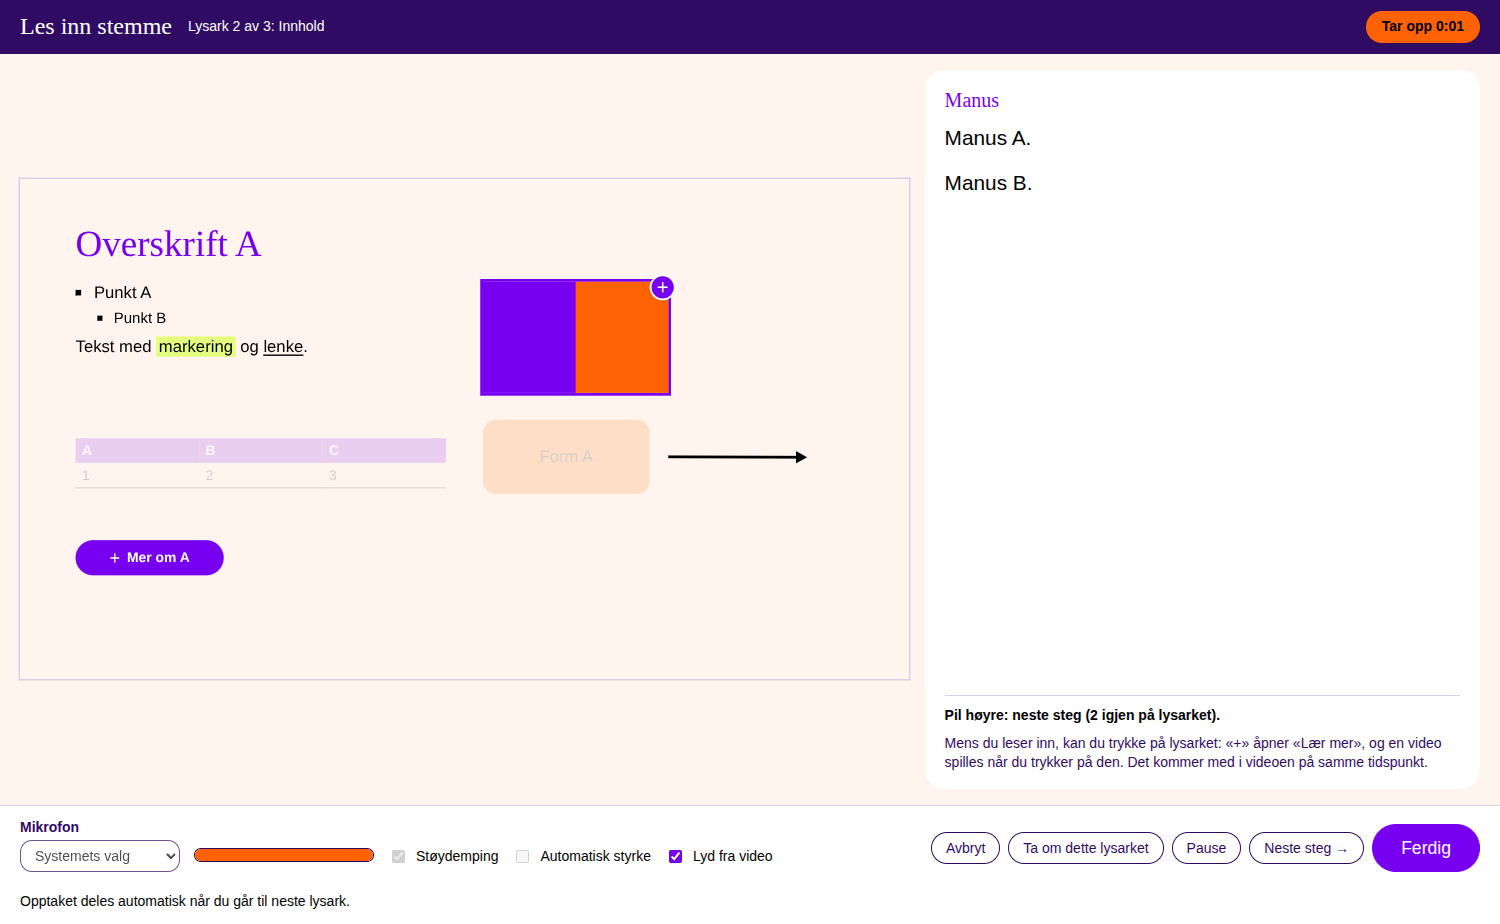
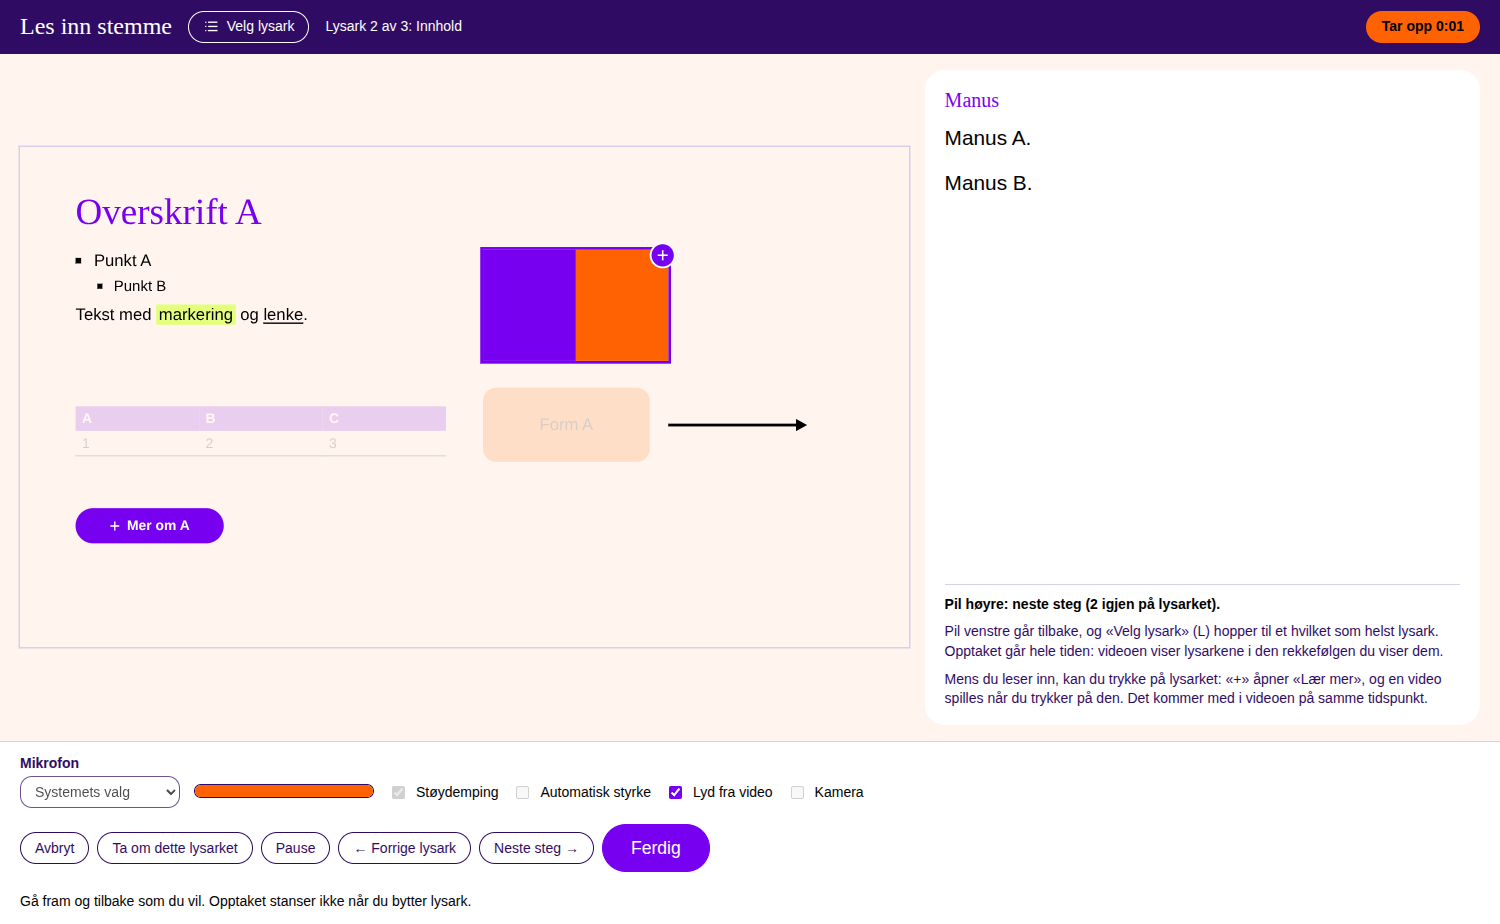
Version 0.5.0: the front page says what the release holds, with new pictures

diff --git a/README.md b/README.md
@@ -44,24 +44,55 @@ på `-win.zip`, pakke den ut og dobbeltklikke på `Lysark.exe`.
 ### 1. Hent inn forelesningen
 
 Trykk «Importer PowerPoint» eller «Importer PDF» og velg fila. Lysark
-lager et prosjekt med ett lysark per side, og sier fra om det som ikke
-kom med.
+spør hvordan lysarkene skal se ut:
+
+- **«Behold utseendet»**: lysarkene ser ut som i fila di.
+- **«Gjør om til USN-stil»**: innholdet settes inn i Lysarks eget
+  utseende. Stående søylediagram og linjediagram fra PowerPoint tegnes
+  da på nytt, med de samme tallene.
+
+Uansett hva du velger, kan tekst og bilder flyttes og endres etterpå.
+Seksjonene i PowerPoint og bokmerkene i en PDF blir kapitler. Lysark
+sier fra om det som ikke kom med.
 
 ### 2. Rett opp lysarkene
 
-Klikk for å velge, dra for å flytte, dobbeltklikk for å skrive. Under
-«Steg» bestemmer du hva som skal komme inn ett for ett.
+Klikk for å velge, dra for å flytte, dobbeltklikk for å skrive.
 
-Høyreklikk på hva som helst og velg «Legg til «Lær mer»» for å gi
-studentene mer stoff: tekst, bilder, video, tabeller og nettsider.
-Bilder kan du søke fram i Wikimedia Commons og Openverse, og Lysark
-setter inn hvem som har laget dem.
-Studenten trykker på «+», og en boks spretter ut ved siden av.
+**Figurer.** «Sett inn» og «Figur» gir deg en prosess, en lagvis
+oppbygging, en sammenligning, en tidsakse, et søylediagram eller et
+linjediagram. Du fyller ut et skjema, og figuren tegner seg selv. Tall
+til et diagram kan du lime rett inn fra et regneark. Du kan også lage
+en figur fritt: piler fester seg til bokser og følger dem når du
+flytter dem.
+
+![Et søylediagram, med tabellen for tallene til høyre](docs/bilder/figur.png)
+
+**Steg.** Under «Steg» bestemmer du hva som skal skje, ett trykk om
+gangen: noe kommer inn, noe markeres, noe tas bort, eller bildet zoomer
+inn på et utsnitt. Lysark foreslår hvordan hver ting kommer inn: en pil
+tegnes, søyler vokser, et stort tall teller opp. Du kan velge noe annet.
+
+![Fanen «Steg» med stegene til et lysark](docs/bilder/steg.png)
+
+**«Lær mer».** Høyreklikk på hva som helst og velg «Legg til «Lær mer»»
+for å gi studentene mer stoff: tekst, bilder, video, tabeller,
+nettsider og figurer du har laget på et lysark. Bilder kan du søke fram
+i Wikimedia Commons og Openverse, og Lysark setter inn hvem som har
+laget dem. Studenten trykker på «+», og en boks spretter ut ved siden
+av.
+
+**Merker på et bilde.** Velg et bilde og trykk «Legg til merke» for å
+peke ut det viktige i bildet, med tall og forklaring eller med
+etiketter.
 
 ### 3. Les inn stemmen
 
 Trykk «Les inn» i fanen «Lyd». Manuset står ved siden av lysarket mens
-du snakker. Pil høyre går til neste steg eller neste lysark.
+du snakker. Pil høyre går til neste steg eller neste lysark, pil venstre
+går tilbake, og «Velg lysark» hopper dit du vil. Opptaket går hele
+tiden, som et vanlig videoopptak: går du tilbake til et lysark, vises
+det en gang til i videoen.
 
 Vil du være med i bildet, krysser du av for «Kamera». Da vises ansiktet
 ditt i en sirkel på lysarket, og blir med i videoen. Dra sirkelen dit
@@ -87,13 +118,14 @@ til å bruke.
 
 - **«Eksporter HTML»** gir én fil du legger ut til studentene. Har du
   lest inn stemmen, kan de trykke «Spill av».
-- **«Eksporter video»** gir en MP4-fil med teksting ved siden av, eller
-  en GIF av et kort klipp.
+- **«Eksporter video»** gir en MP4-fil med kapitler og med teksting
+  ved siden av, eller en GIF av et kort klipp. Du kan også lage en
+  video av bare noen få lysark.
 
 ### Dette får studentene
 
 En forelesning de blar i selv, med piltaster eller mus. «+» åpner det du
-har lagt i «Lær mer».
+har lagt i «Lær mer», og «Innhold» viser kapitlene.
 
 ![Forelesningen i nettleseren, med en «Lær mer»-boks åpen](docs/bilder/student.png)
 

diff --git a/docs/historikk.md b/docs/historikk.md
@@ -3186,6 +3186,60 @@ videre. Testen svarer selv; dialogen er aldri vist på skjermen.
 **Ikke prøvd:** Windows, og dialogen sett med øynene (testen leser hva
 den ber om, den ser den ikke).
 
+### 6.48 Eieren ber om en utgivelse, nye bilder og et rullefelt som holder seg innenfor (26.11.2026)
+
+Startmeldingen til denne chatten hadde ingen funn («(skriv her)» sto
+igjen). Innspillet, ord for ord:
+
+> Jeg vil nå egentlig bare får en release, oppdaterer med nye bilder på
+> GH og fikser scrollbaren på bildet. Den clipper iver i den lilla
+> borden. Si ifra når jeg kan gå på
+> /home/simen/Forelesningsverktoy/lysark/release og teste nyeste versjon
+
+Med meldingen fulgte et skjermbilde av «Lær mer»-boksen i
+forhåndsvisningen: rullefeltet sto over den lilla kanten i de runde
+hjørnene, oppe og nede.
+
+**Rullefeltet.** Boksen ruller selv, og et vanlig rullefelt er en
+firkant like høy som boksen. Der hjørnene er runde, ble firkanten
+derfor liggende over kanten. Nå er rullefeltet en smal lilla stripe som
+begynner og slutter innenfor hjørnene. Det gjelder alle bokser med
+runde hjørner som kan rulle:
+
+- «Lær mer»-boksen hos studentene og i forhåndsvisningen,
+- boksene «Hjelp» og «Bildekilder» hos studentene,
+- «Lær mer»-boksen i innlesingsvinduet,
+- boksen i «Lær mer»-byggeren, og
+- dialogene i programmet.
+
+Reglene står ett sted (`roundScrollCss` i `src/shared/render/css.ts`).
+Videoen er uendret; der har boksen aldri hatt rullefelt.
+
+**Prøvd på Linux Mint:** i det bygde programmet uten vindu. Bildet av
+boksen i forhåndsvisningen er sett på: stripa står innenfor hjørnene.
+Testen for «Lær mer» måler nå at boksen ruller, at rullefeltet er 16
+piksler bredt og at sporet slutter 12 piksler fra endene.
+
+**Ikke prøvd:** Windows. Firefox: reglene er de Chrome, Edge og Safari
+bruker, så i Firefox er rullefeltet som før. Boksene i byggeren,
+innlesingsvinduet og dialogene er ikke sett på med et rullefelt i; de
+har samme regler, men ingen prøve får dem til å rulle.
+
+**Hele testsamlingen etter rettingen:** 578 av 580 besto i hele
+kjøringen, 1 hoppes over som før. De to som feilet, er begge i testen
+for «Lær mer» og video under innlesing (`tests/e2e-events.test.ts`):
+videoeksporten ble ikke ferdig innen tidsfristen mens maskinen var
+tungt belastet av annet arbeid (belastning rundt 30). Den besto alene
+rett etterpå (3 av 3).
+
+**Nye bilder på forsiden.** Forsiden (README) beskriver nå det 0.5.0
+inneholder: valget ved import, kapitler, figurer og diagrammer, steg
+med bevegelse, merker på bilder, figur i «Lær mer», og opptak der du
+går fram og tilbake. De fem bildene er tatt på nytt av testene, og to
+er nye: et søylediagram med tabellen for tallene (`figur.png`) og fanen
+«Steg» (`steg.png`). Alle sju er sett på før de ble lagt inn. De har
+bare prøveinnhold, og ingen viser USNs logo.
+
 ## 7. Hvordan importen sammenlignes med PDF-ene
 
 Slik sammenlignes importen med PDF-ene: `tests/real-screens.test.ts`

diff --git a/AGENTS.md b/AGENTS.md
@@ -464,6 +464,11 @@ instead of choosing silently.
   22.11.2026): no logs, no test details, no long tables. What was built
   and tried in detail, and his feedback word for word, goes into
   `docs/historikk.md`, which is the log.
+- A box with round corners that scrolls uses the narrow scrollbar
+  (`roundScrollCss` in `src/shared/render/css.ts`, and the same rules
+  for the dialogs and the builder in `styles.css`). An ordinary
+  scrollbar lies across the round corners; the owner saw that on the
+  "Lær mer" box on 26.11.2026.
 - Buttons never end in "…" (the owner, 22.11.2026). A button that opens
   a file dialog says what happens ("Velg fil og eksporter"). Icons are
   the program's own line drawings in `src/renderer/src/Icon.tsx`; no icon
@@ -502,9 +507,10 @@ instead of choosing silently.
   through and rewritten. Do not change its visibility, create other
   remote repositories or publish anything (releases, packages) unless
   the owner asks. He asked for a release on 22.11.2026 (version 0.2.0),
-  on 23.11.2026 (version 0.3.0) and on 25.11.2026 (version 0.4.0): each
-  is a release with the packaged program for Linux and Windows (from
-  0.4.0 the Windows installer too) and FFmpeg's source. Make a new
+  on 23.11.2026 (version 0.3.0), on 25.11.2026 (version 0.4.0) and on
+  26.11.2026 (version 0.5.0): each is a release with the packaged
+  program for Linux and Windows (from 0.4.0 the Windows installer too)
+  and FFmpeg's source. Make a new
   release only when he asks for one.
 - The README is the front page for lecturers (the owner, 25.11.2026):
   installation first, then how the program is used, with pictures, in
